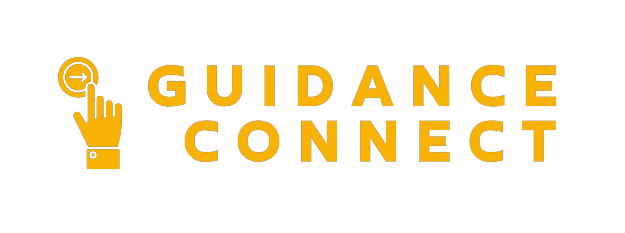
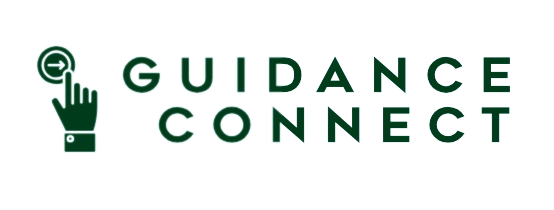
Changing color scheme

Changed region(s): [[0.2148, 0.2571, 0.9206, 0.4571], [0.2762, 0.4857, 0.9206, 0.7143], [0.0614, 0.2, 0.2148, 0.7429]]

diff --git a/layouts/default.vue b/layouts/default.vue
@@ -31,7 +31,7 @@
         <div>
             <FacebookChat />
         </div>
-        <v-footer class="sticky-bottom" color="bg200">
+        <v-footer class="sticky-bottom" color="primary100">
             <v-row justify="center" align="center" no-gutters>
                 <v-btn
                     v-for="(item, index) in navItem"
@@ -44,7 +44,7 @@
                         active: isActive(index),
                         'pop-icon': isActive(index),
                     }"
-                    :color="isActive(index) ? 'primary300' : 'transparent'"
+                    :color="isActive(index) ? 'bg300' : 'transparent'"
                     :style="{
                         display: 'flex',
                         flexDirection: 'column',
@@ -59,7 +59,7 @@
                     "
                 >
                     <v-slide-y-transition>
-                        <v-icon :key="item.icon" color="primary300" size="26">
+                        <v-icon :key="item.icon" color="bg300" size="26">
                             {{ item.icon }}
                         </v-icon>
                     </v-slide-y-transition>

diff --git a/plugins/vuetify.ts b/plugins/vuetify.ts
@@ -7,16 +7,16 @@ const myCustomLightTheme: ThemeDefinition = {
     dark: false,
     colors: {
         // Pickle green
-        primary100: "#8BC34A",
+        primary100: "#5C946E",
         primary200: "#6da52d",
         primary300: "#286400",
         accent100: "#FFC107",
         accent200: "#916400",
         text100: "#333333",
         text200: "#5c5c5c",
-        bg100: "#C7E5C3",
-        bg200: "#bde5c5",
-        bg300: "#96bc9e",
+        bg100: "#D9EAD3",
+        bg200: "#cfe0c9",
+        bg300: "#003b1b",
     },
 };
 const myCustomDarkTheme: ThemeDefinition = {

diff --git a/pages/index.vue b/pages/index.vue
@@ -218,8 +218,8 @@ body {
 }
 
 marquee {
-    background-color: #8bc34a;
-    color: #286400;
+    background-color: #5c946e;
+    color: #003b1b;
     font-size: 1.5rem;
     font-weight: bold;
     padding: 0.5rem;
